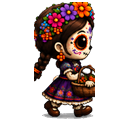
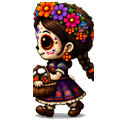
Fix Pepita moonwalk: correct L/R facing and snappier walk FPS.
Side sheet faced left but was wired as right; mirror the other way, reset
walk tickers on play, and speed the leg cycle so feet read at plaza scale.

diff --git a/lib/game/resident.dart b/lib/game/resident.dart
@@ -100,9 +100,10 @@ class Resident extends PositionComponent with TapCallbacks, DragCallbacks {
       // Walk cycles: match frame rate to travel speed so feet don't skate.
       if (entry.key.startsWith('walk_') && sprites.length > 1) {
         final walkSpeed = config.movement['walkSpeed'] ?? 55.0;
-        const stridePixels = 48.0;
+        // Shorter stride → snappier leg cycles so feet read at plaza scale.
+        const stridePixels = 36.0;
         final cyclesPerSecond = walkSpeed / stridePixels;
-        fps = (cyclesPerSecond * sprites.length).clamp(6.0, 11.0);
+        fps = (cyclesPerSecond * sprites.length).clamp(8.0, 14.0);
       }
       _animations[entry.key] = SpriteAnimation.spriteList(
         sprites,
@@ -221,7 +222,11 @@ class Resident extends PositionComponent with TapCallbacks, DragCallbacks {
       return;
     }
     _currentAnimationName = resolvedName;
-    _visual?.animation = animation;
+    final visual = _visual;
+    if (visual == null) return;
+    visual.animation = animation;
+    visual.playing = true;
+    visual.animationTicker?.reset();
   }
 
   String? _resolveAnimation(String name) {
@@ -435,17 +440,11 @@ class Resident extends PositionComponent with TapCallbacks, DragCallbacks {
       return;
     }
     // Stick with the current axis until the other clearly dominates (hysteresis).
-    var preferHorizontal = force
+    final preferHorizontal = force
         ? dx.abs() >= dy.abs()
         : (direction == 'left' || direction == 'right')
             ? dx.abs() >= dy.abs() * 0.72
             : dx.abs() > dy.abs() * 1.15;
-    // Pepita's walk_down faces sideways in current art — prefer L/R when close.
-    if (!force && config.id == 'pepita' && !preferHorizontal && dx.abs() > 6) {
-      if (dx.abs() > dy.abs() * 0.45) {
-        preferHorizontal = true;
-      }
-    }
     final next = preferHorizontal
         ? (dx < 0 ? 'left' : 'right')
         : (dy < 0 ? 'up' : 'down');
